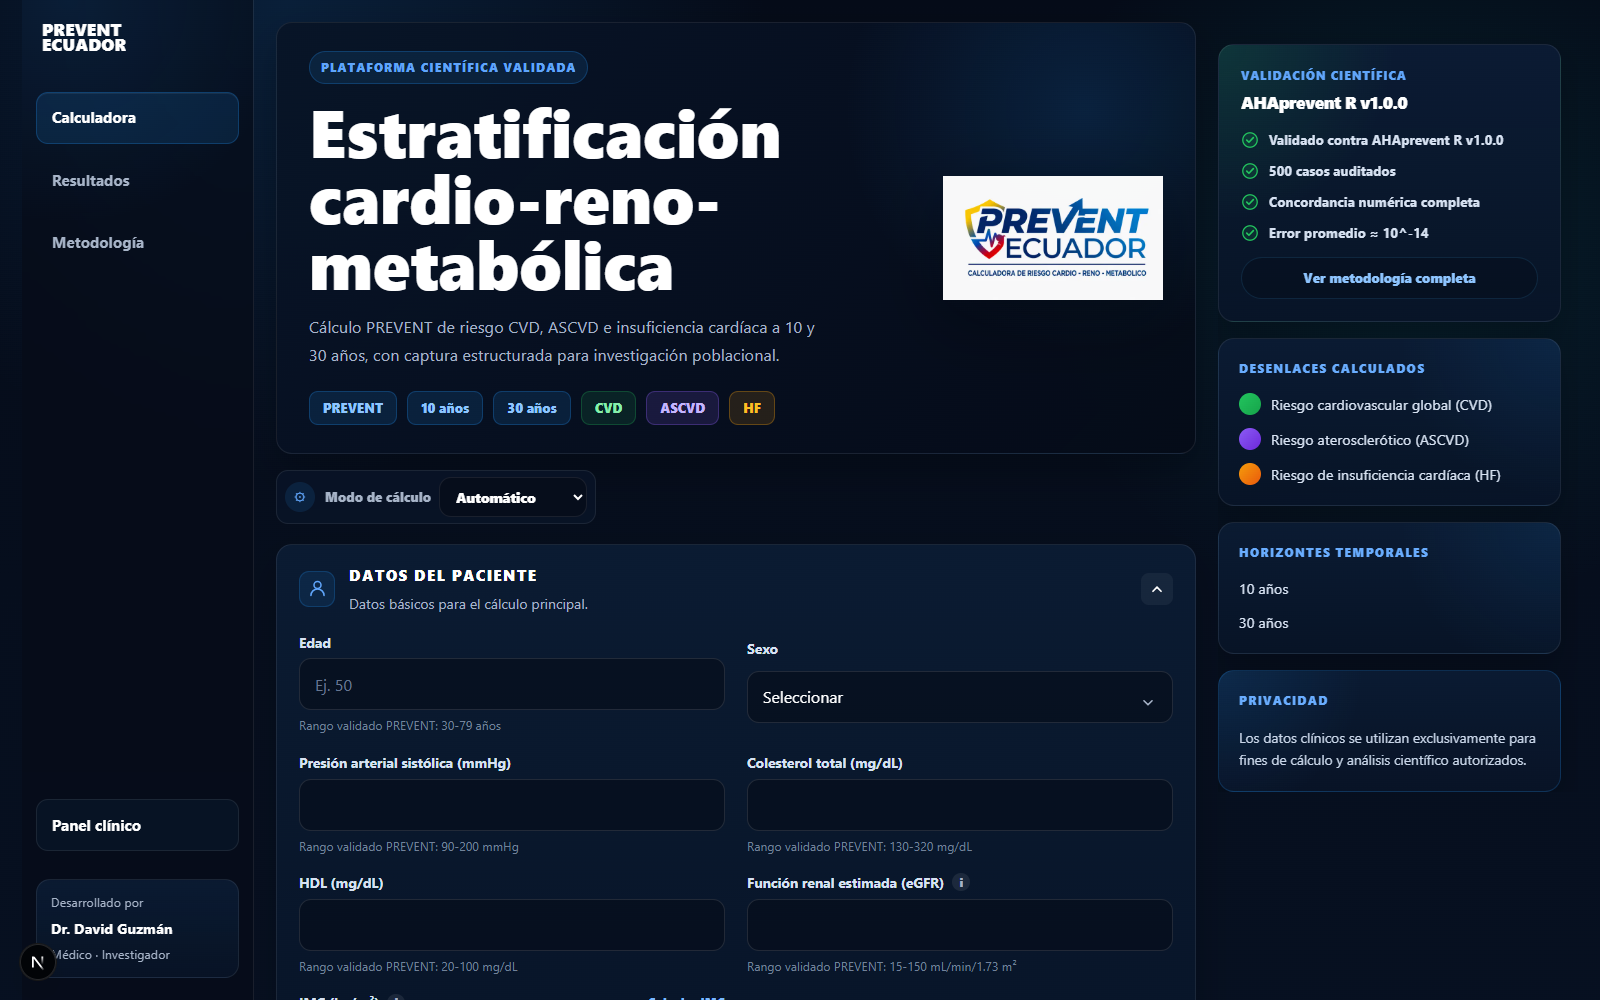
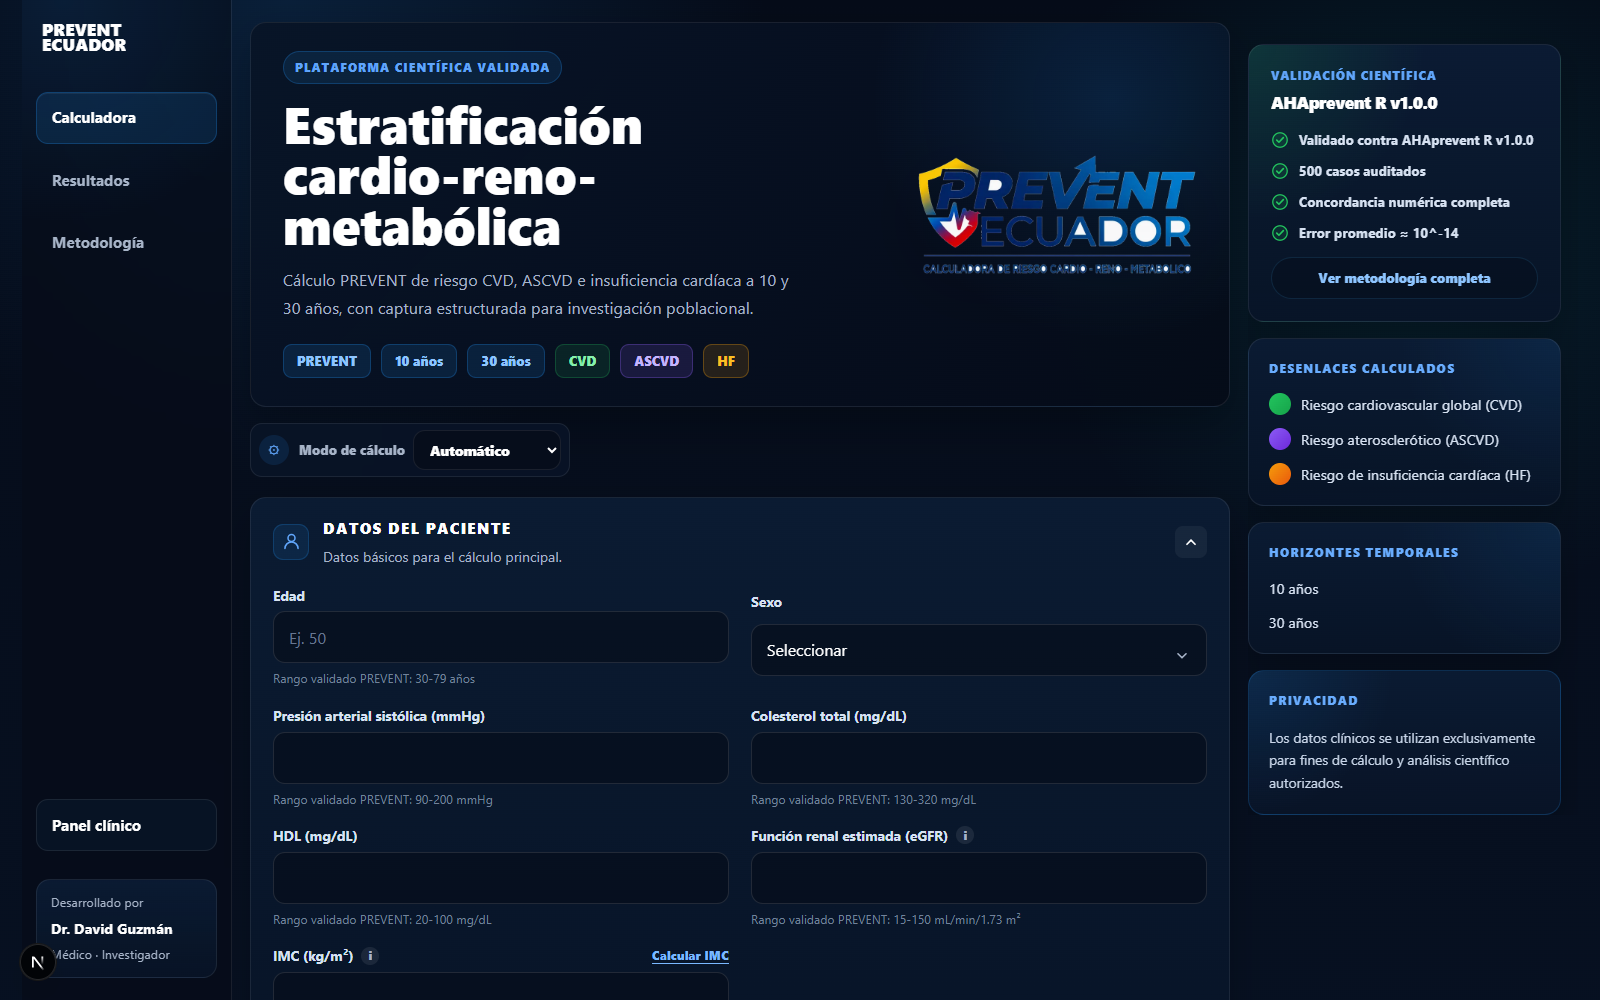
mejora apariencia4

diff --git a/frontend/src/app/globals.css b/frontend/src/app/globals.css
@@ -75,8 +75,8 @@ button {
   width: min(1640px, 100%);
   margin: 0 auto;
   display: grid;
-  grid-template-columns: 232px minmax(0, 1fr) minmax(310px, 360px);
-  gap: 22px;
+  grid-template-columns: 210px minmax(0, 1fr) minmax(300px, 330px);
+  gap: 18px;
   align-items: start;
 }
 
@@ -379,8 +379,8 @@ button {
 
 .prevent-hero-grid {
   display: grid;
-  grid-template-columns: minmax(0, 1fr) minmax(220px, 0.36fr);
-  gap: 28px;
+  grid-template-columns: minmax(0, 1fr) minmax(250px, 0.4fr);
+  gap: 24px;
   align-items: center;
   width: 100%;
 }
@@ -398,14 +398,16 @@ button {
 }
 
 .prevent-hero-logo img {
+  width: min(300px, 100%);
+  max-width: none;
   filter: drop-shadow(0 18px 34px rgba(0, 0, 0, 0.34));
 }
 
 .prevent-title {
-  max-width: 18ch;
+  max-width: 13ch;
   margin: 14px 0 0;
   color: #ffffff;
-  font-size: clamp(2.45rem, 4.2vw, 4.5rem);
+  font-size: clamp(2.1rem, 2.75vw, 3.25rem);
   font-weight: 850;
   line-height: 0.98;
   letter-spacing: 0;
@@ -3231,6 +3233,10 @@ button {
 
   .prevent-hero-logo {
     justify-content: flex-start;
+  }
+
+  .prevent-hero-logo img {
+    width: min(360px, 100%);
   }
 
   .prevent-title {

diff --git a/frontend/src/components/calculator/PreventCalculator.tsx b/frontend/src/components/calculator/PreventCalculator.tsx
@@ -909,10 +909,10 @@ export function PreventCalculator() {
               </div>
               <div className="prevent-hero-logo">
                 <Image
-                  src="/LOGO PREVENT.png"
+                  src="/prevent-ecuador-logo-transparent.png"
                   alt="PREVENT Ecuador"
-                  width={520}
-                  height={180}
+                  width={720}
+                  height={310}
                   priority
                   className="h-auto w-full max-w-[520px] object-contain"
                 />